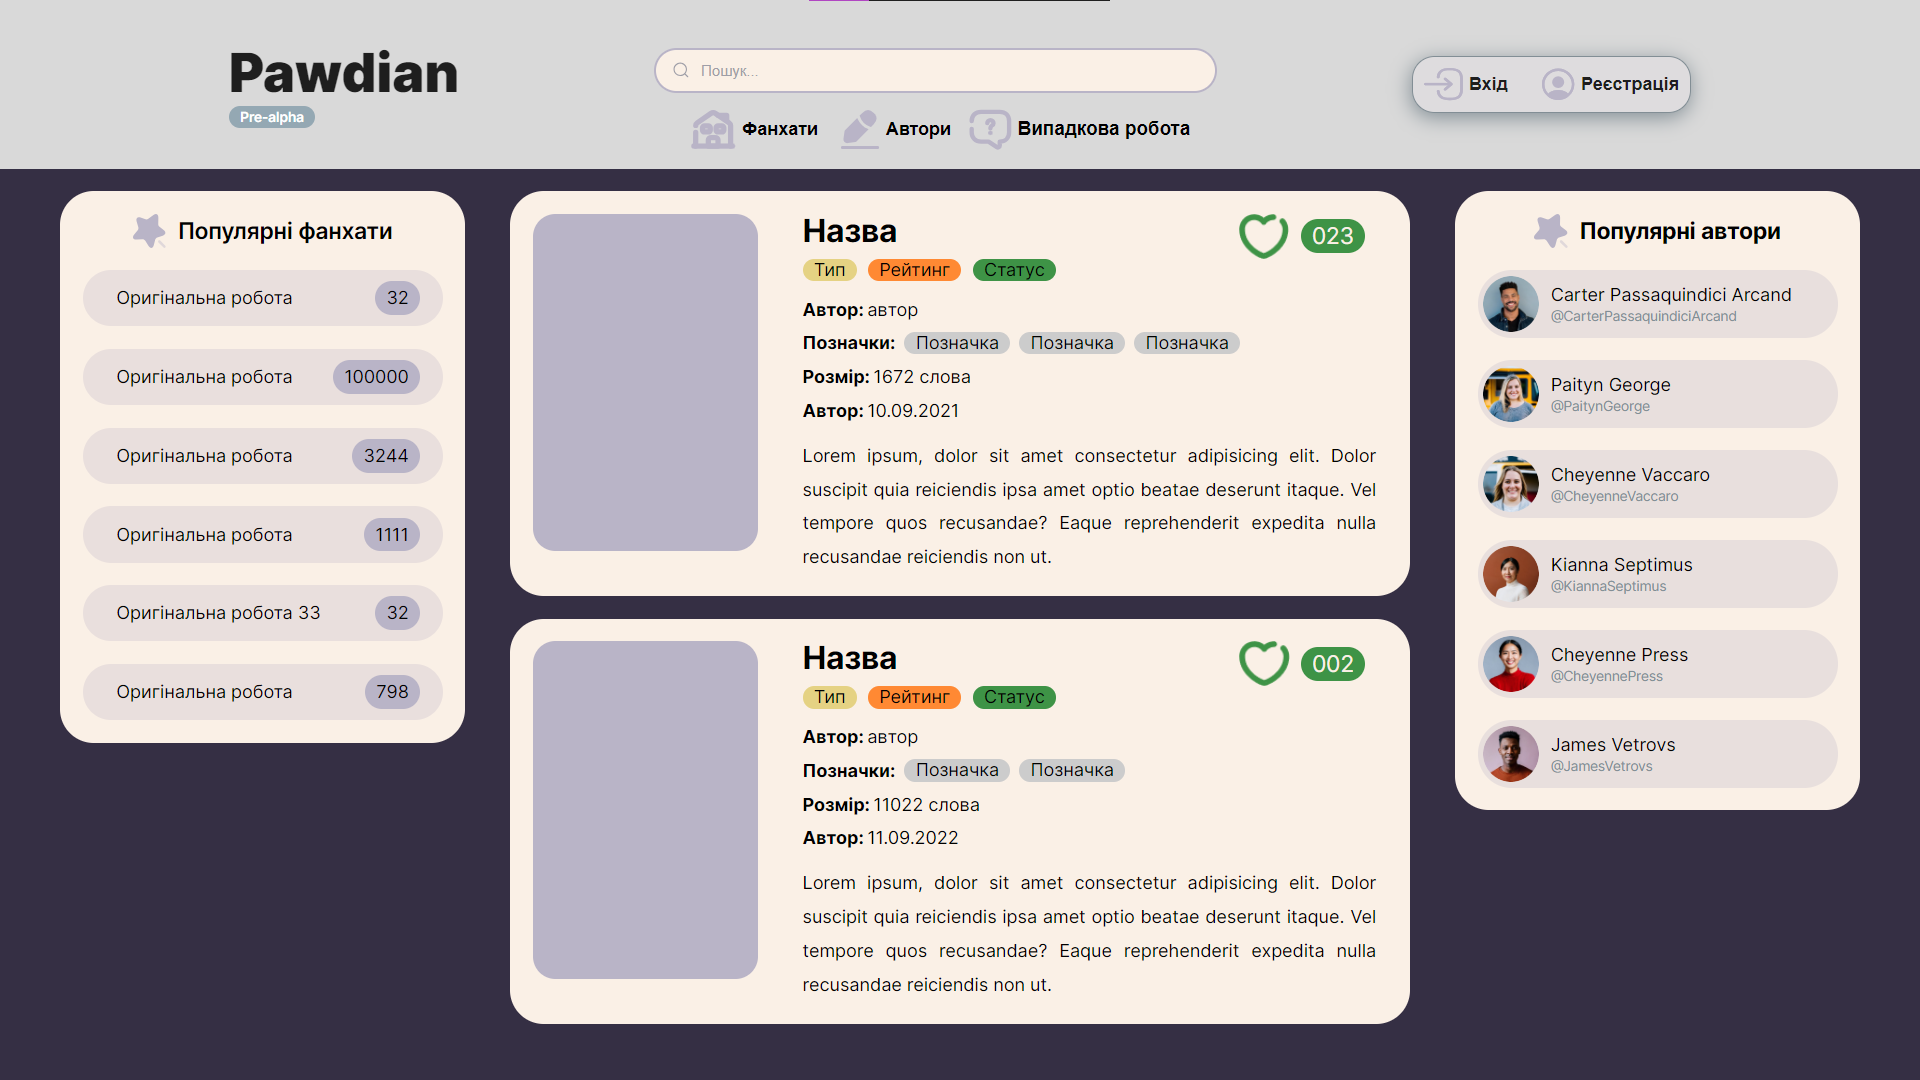
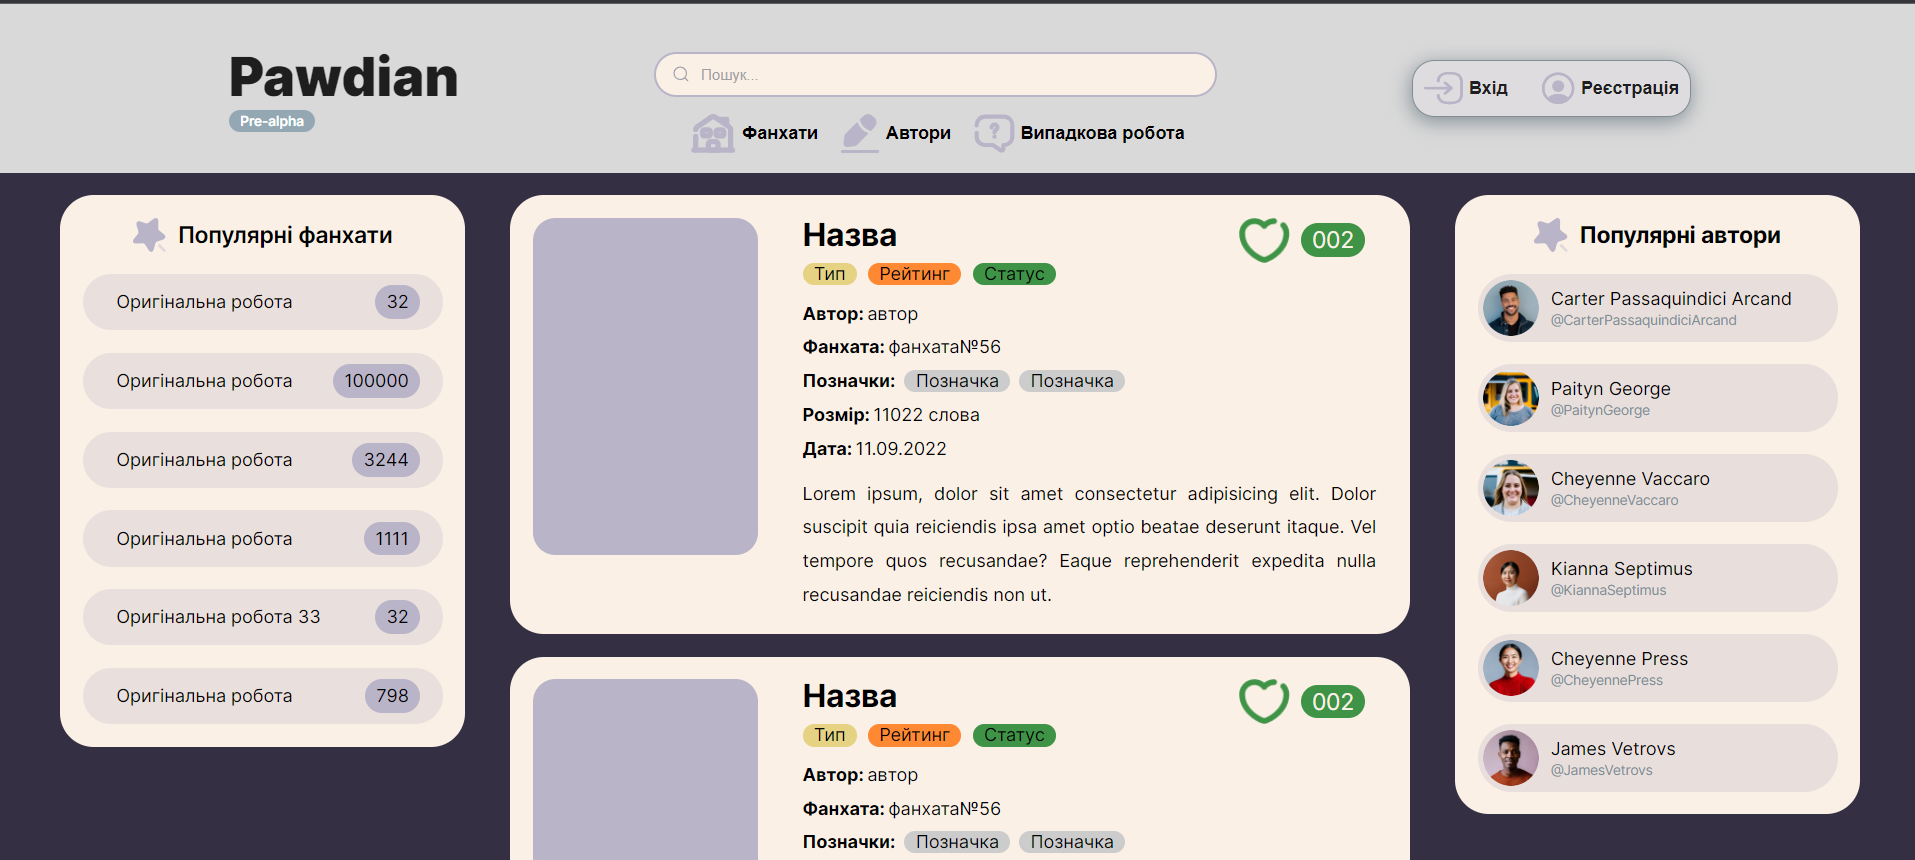
changed some fields in desc block

diff --git a/src/components/Main/Main.jsx b/src/components/Main/Main.jsx
@@ -50,7 +50,7 @@ const Main = () => {
         <div className={classes.fanfiction}>
           <div className={classes.fanfiction__likes}>
             <img src={icon_heart} alt="" />
-            <span>023</span>
+            <span>002</span>
           </div>
           <div className={classes.fanfiction__label}>
             <img src="" alt="" />
@@ -68,18 +68,21 @@ const Main = () => {
                 <p>автор</p>
               </div>
               <div className={classes.fanfiction__descriptionBlock}>
+                <h3>Фанхата:</h3>
+                <p>фанхата№56</p>
+              </div>
+              <div className={classes.fanfiction__descriptionBlock}>
                 <h3>Позначки:</h3>
-                <span>Позначка</span>
                 <span>Позначка</span>
                 <span>Позначка</span>
               </div>
               <div className={classes.fanfiction__descriptionBlock}>
                 <h3>Розмір:</h3>
-                <p>1672 слова</p>
+                <p>11022 слова</p>
               </div>
               <div className={classes.fanfiction__descriptionBlock}>
-                <h3>Автор:</h3>
-                <p>10.09.2021</p>
+                <h3>Дата:</h3>
+                <p>11.09.2022</p>
               </div>
               <div className={classes.fanfiction__description}>
                 Lorem ipsum, dolor sit amet consectetur adipisicing elit. Dolor
@@ -112,6 +115,10 @@ const Main = () => {
                 <p>автор</p>
               </div>
               <div className={classes.fanfiction__descriptionBlock}>
+                <h3>Фанхата:</h3>
+                <p>фанхата№56</p>
+              </div>
+              <div className={classes.fanfiction__descriptionBlock}>
                 <h3>Позначки:</h3>
                 <span>Позначка</span>
                 <span>Позначка</span>
@@ -121,7 +128,7 @@ const Main = () => {
                 <p>11022 слова</p>
               </div>
               <div className={classes.fanfiction__descriptionBlock}>
-                <h3>Автор:</h3>
+                <h3>Дата:</h3>
                 <p>11.09.2022</p>
               </div>
               <div className={classes.fanfiction__description}>
